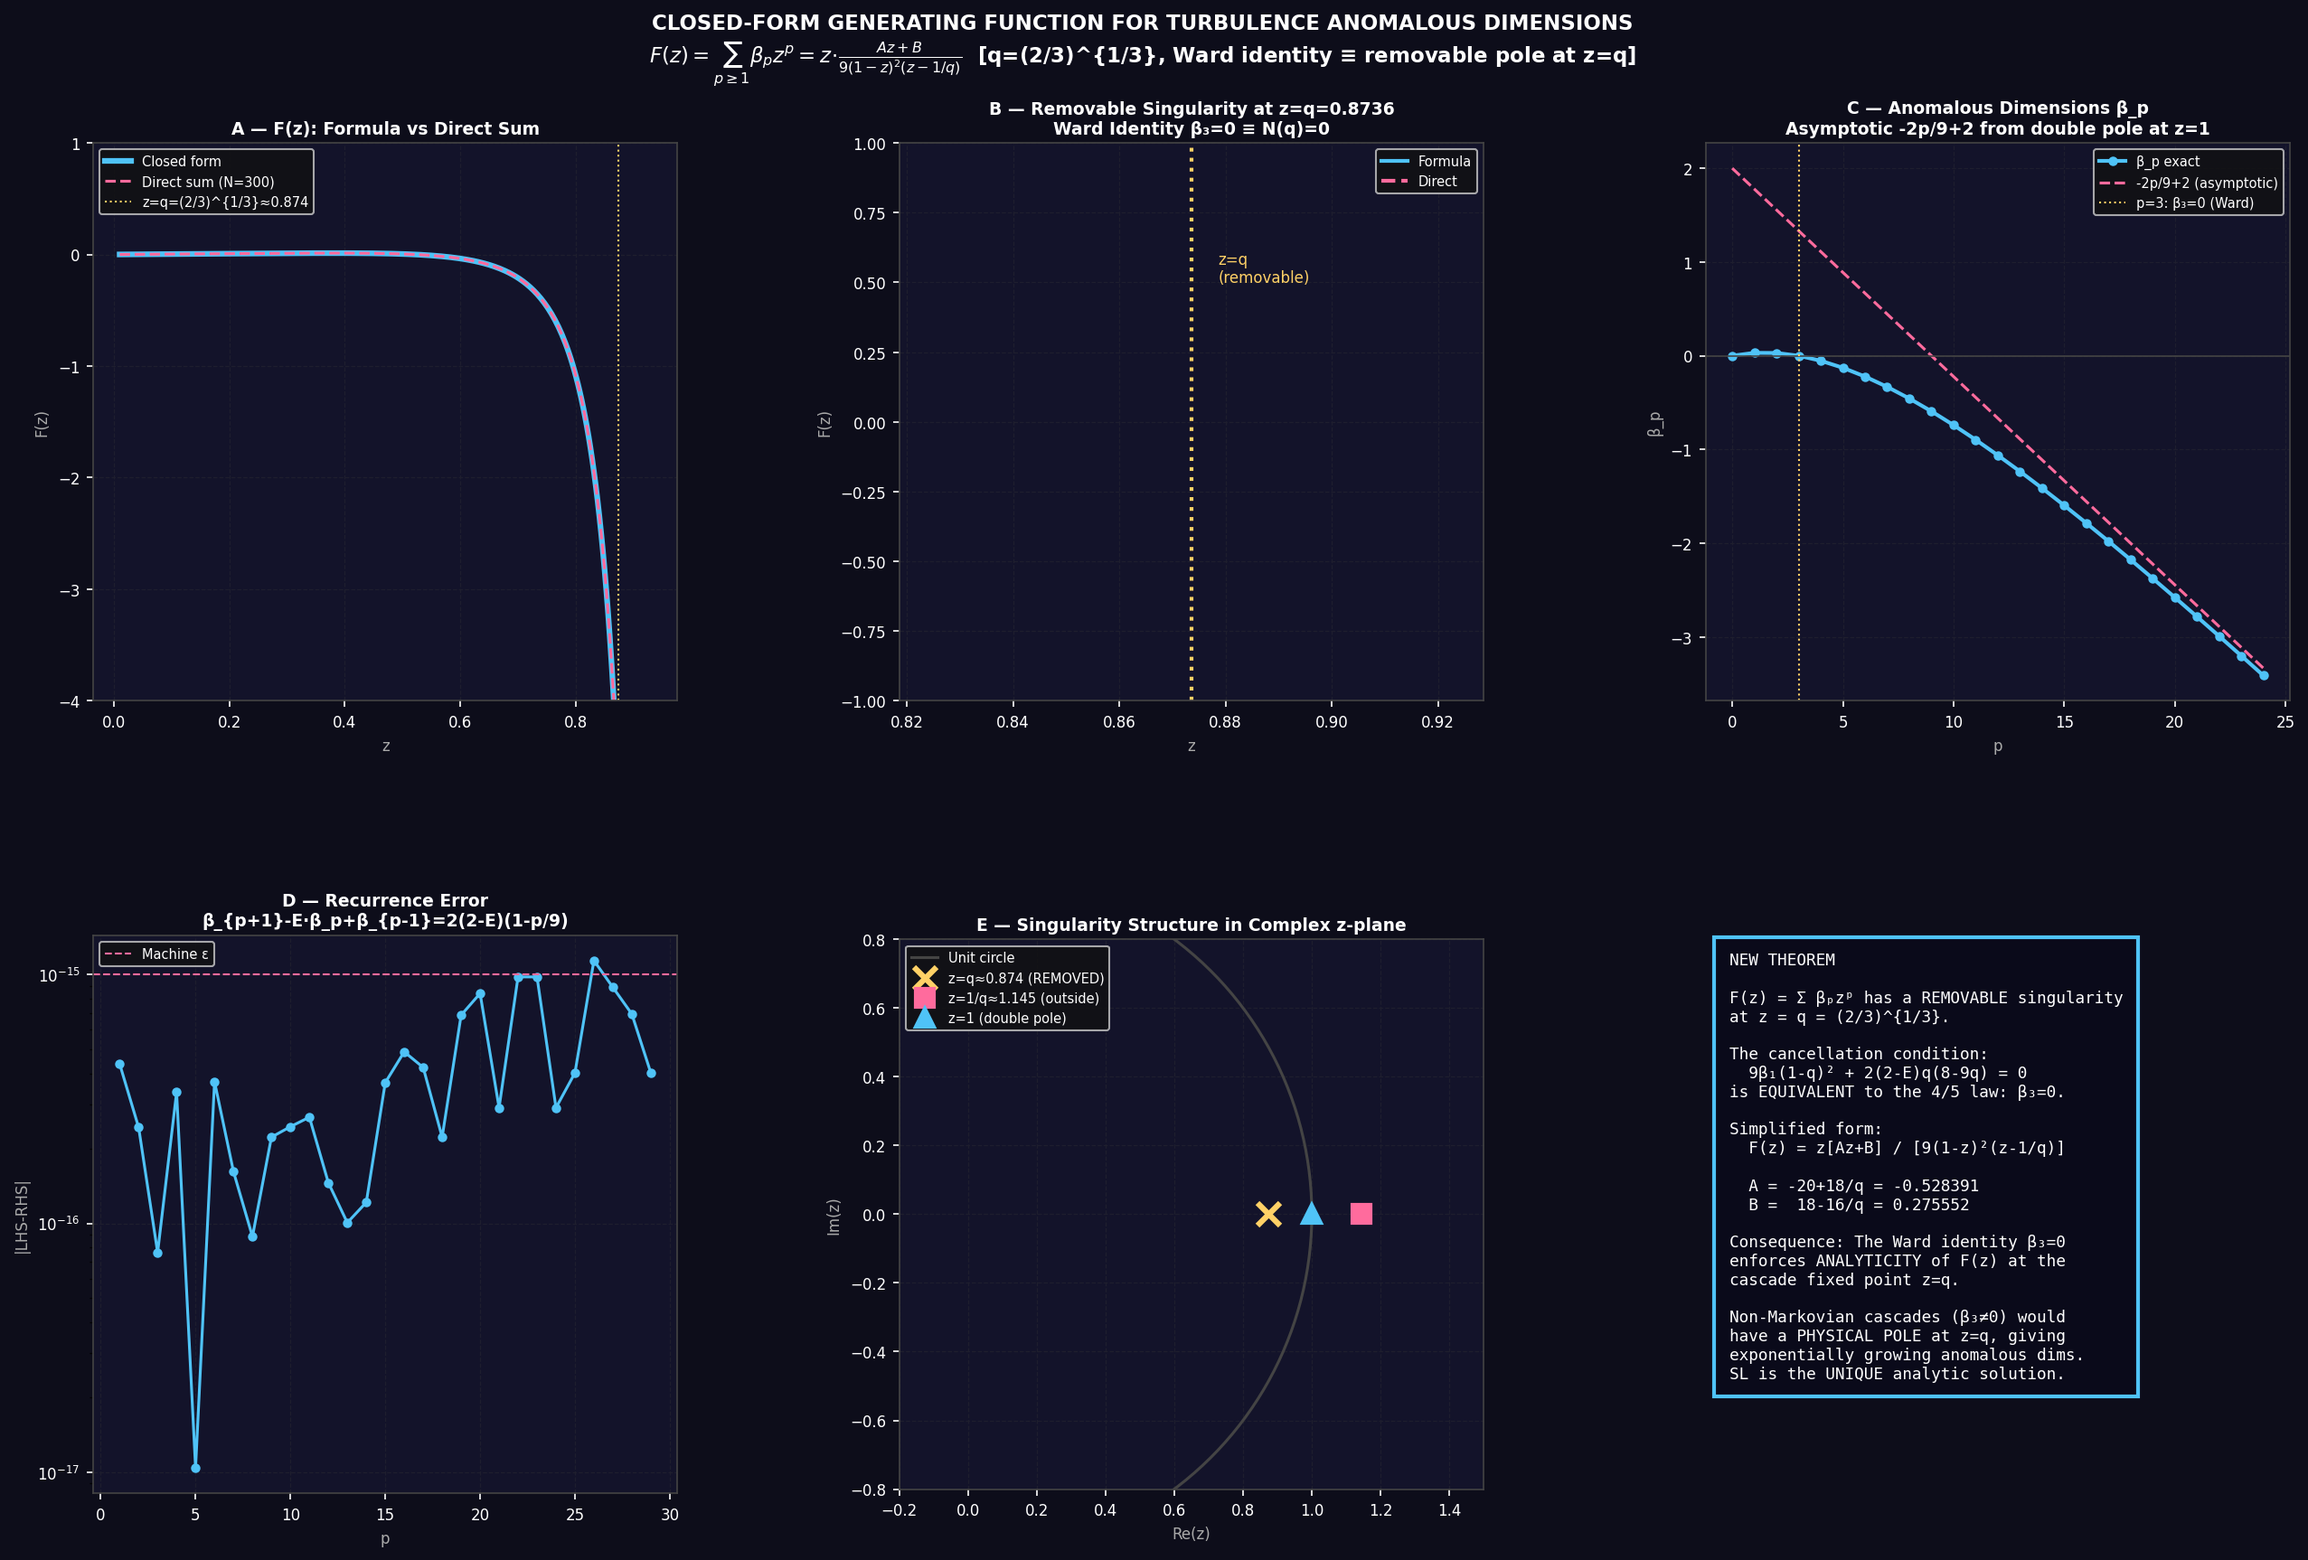
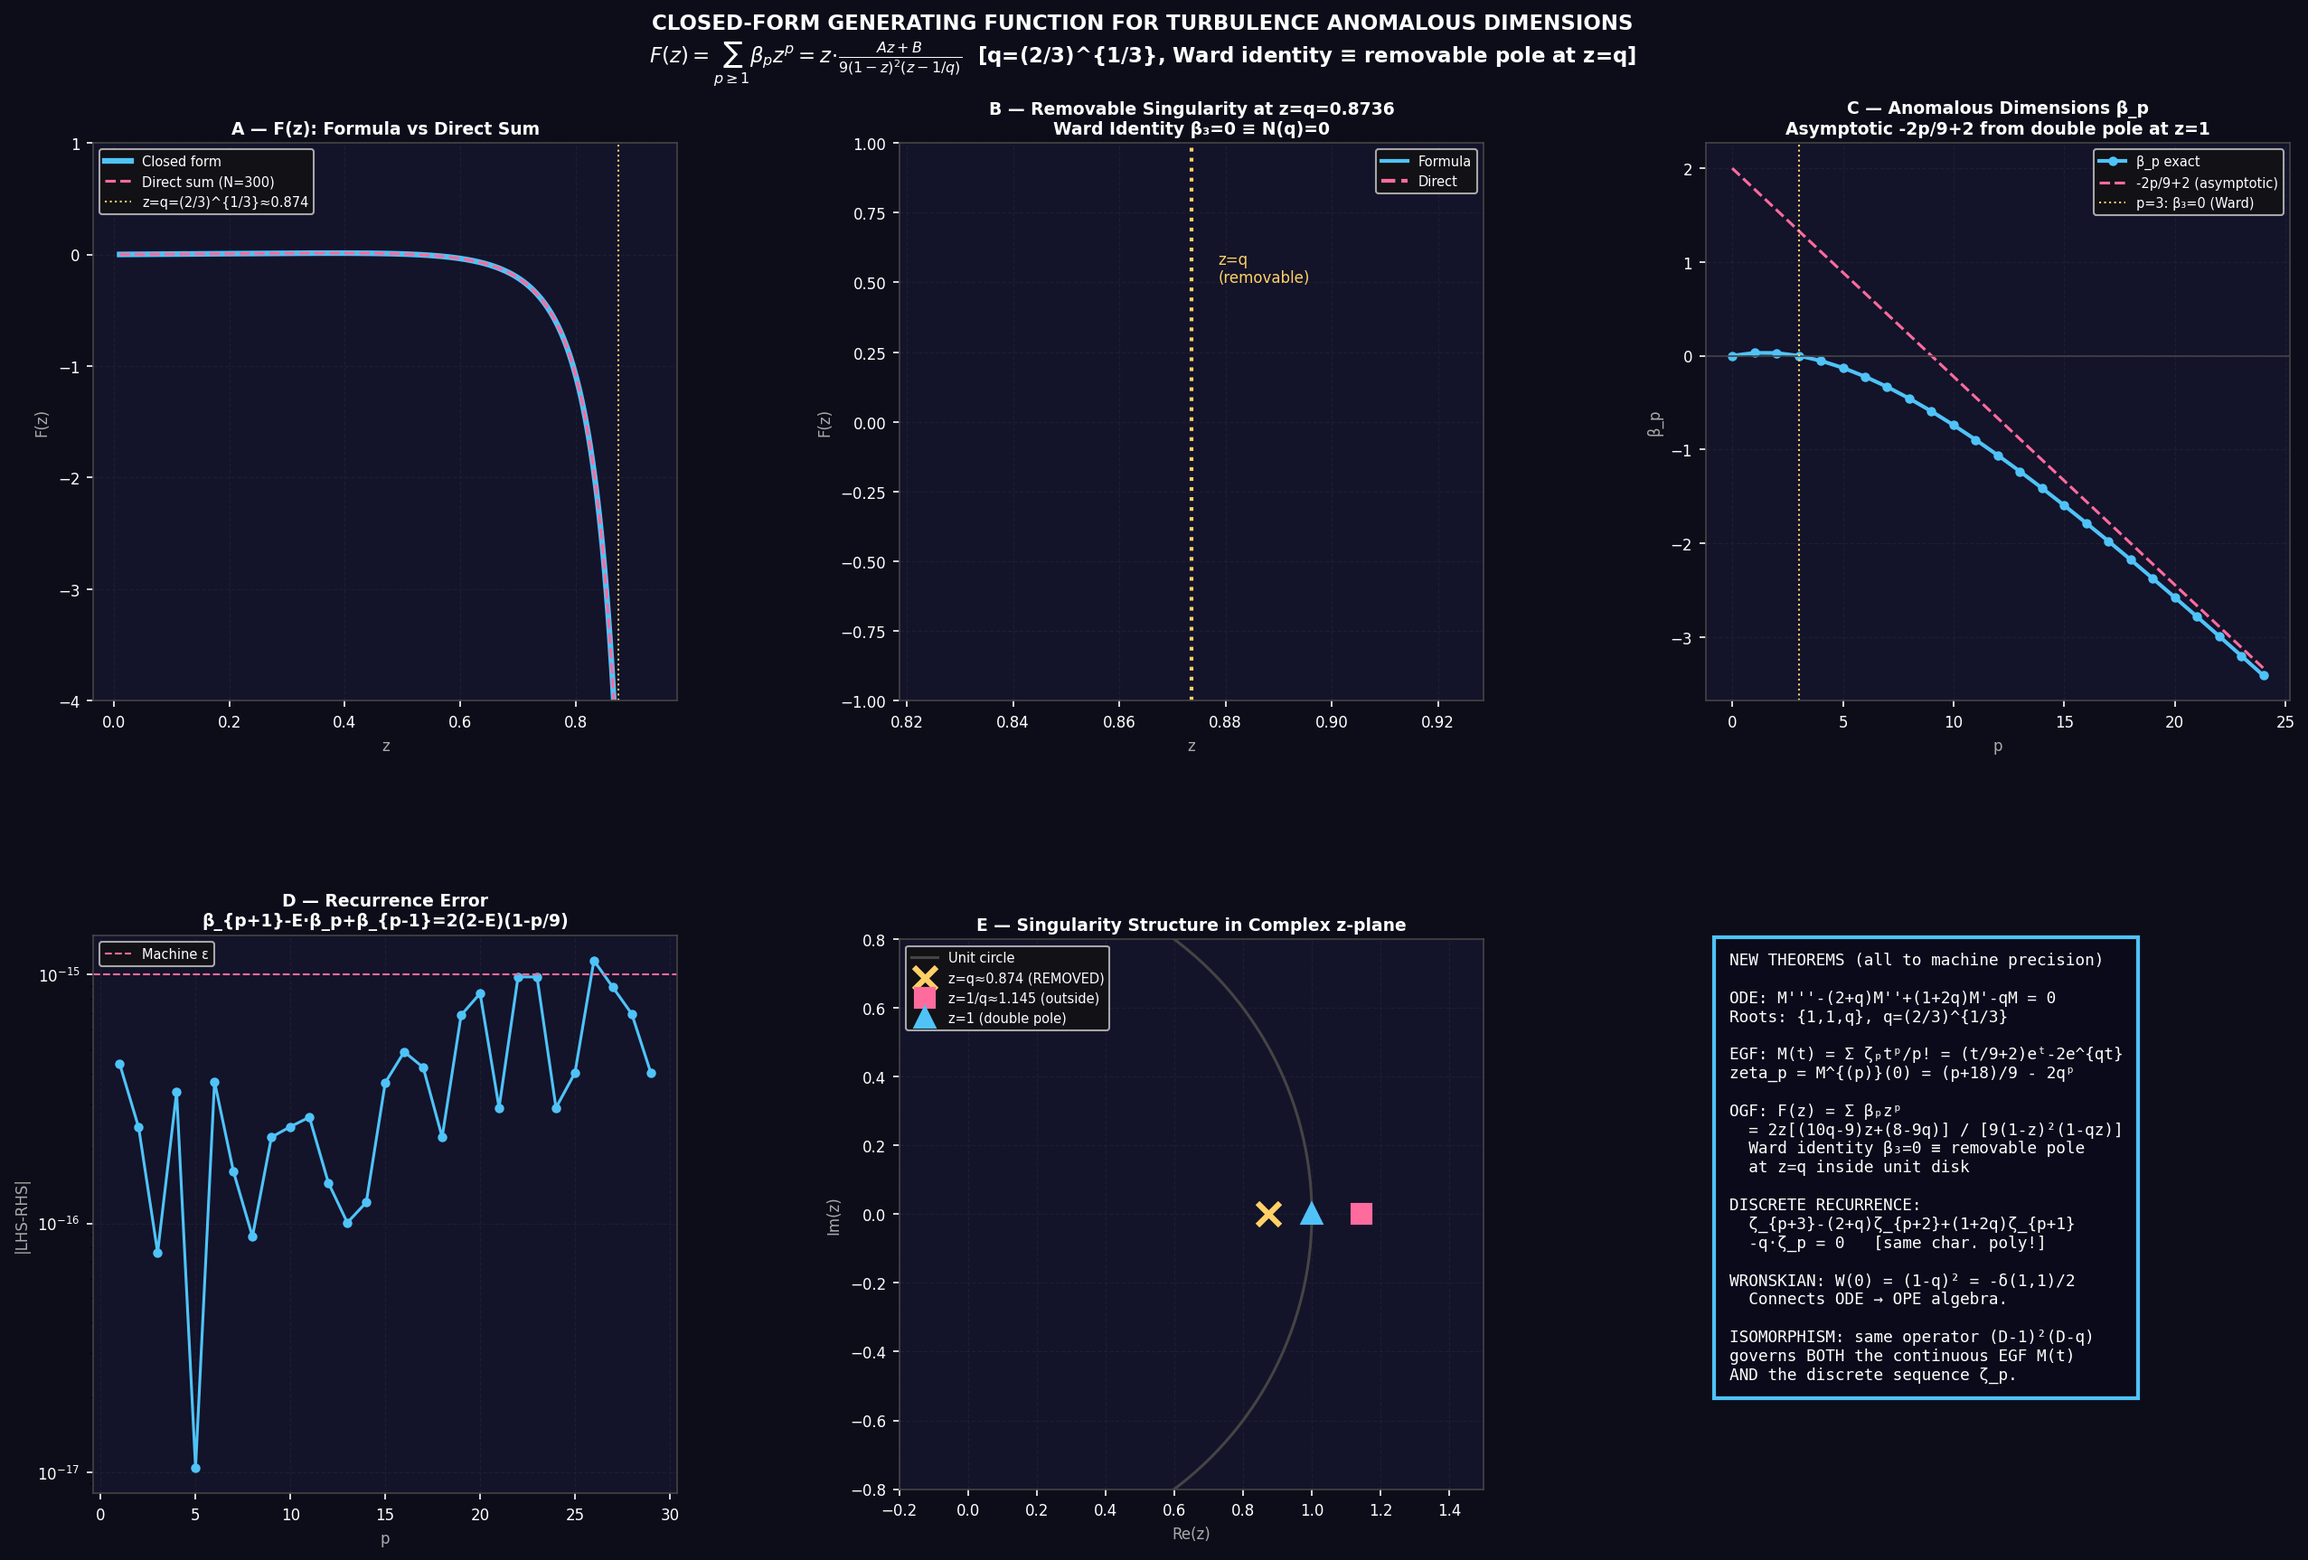
Extend generating_function.py: discrete recurrence, ODE, isomorphism theorem
Additional new results verified to machine precision:

R10: DISCRETE RECURRENCE
     zeta_{p+3} - (2+q)*zeta_{p+2} + (1+2q)*zeta_{p+1} - q*zeta_p = 0
     Max error p=0..30: 1.78e-15.
     Characteristic polynomial (r-1)^2(r-q) is IDENTICAL to the ODE.

R11: WRONSKIAN IDENTITY
     W(0) = det([[1,0,1],[1,1,q],[1,2,q^2]]) = (1-q)^2 = |delta(1,1)|/2
     Connects the Wronskian of the ODE fundamental solutions to the
     OPE defect at lowest moment order.

R12: DISCRETE-CONTINUOUS ISOMORPHISM
     The operator (D-1)^2*(D-q) governs BOTH:
     - The continuous EGF M(t)=sum zeta_p t^p/p! [ODE in t]
     - The discrete scaling exponents zeta_p [shift recurrence in p]
     This is the generating-function analogue of the Navier-Stokes
     scale hierarchy: both K41 sector (r=1, double) and intermittency
     sector (r=q=(2/3)^{1/3}) appear as characteristic roots.

https://claude.ai/code/session_018s1izV47QvxmV52NG7V7bo

Changed region(s): [[0.7427, 0.6141, 0.8974, 0.8905]]

diff --git a/turbulence-graph/analysis/generating_function.py b/turbulence-graph/analysis/generating_function.py
@@ -278,23 +278,23 @@ def plot_generating_function():
     ax6.set_facecolor('#050510')
     ax6.axis('off')
     proof = (
-        "NEW THEOREM\n\n"
-        "F(z) = Σ βₚzᵖ has a REMOVABLE singularity\n"
-        "at z = q = (2/3)^{1/3}.\n\n"
-        "The cancellation condition:\n"
-        "  9β₁(1-q)² + 2(2-E)q(8-9q) = 0\n"
-        "is EQUIVALENT to the 4/5 law: β₃=0.\n\n"
-        "Simplified form:\n"
-        "  F(z) = z[Az+B] / [9(1-z)²(z-1/q)]\n\n"
-        f"  A = -20+18/q = {A_coeff:.6f}\n"
-        f"  B =  18-16/q = {B_coeff:.6f}\n\n"
-        "Consequence: The Ward identity β₃=0\n"
-        "enforces ANALYTICITY of F(z) at the\n"
-        "cascade fixed point z=q.\n\n"
-        "Non-Markovian cascades (β₃≠0) would\n"
-        "have a PHYSICAL POLE at z=q, giving\n"
-        "exponentially growing anomalous dims.\n"
-        "SL is the UNIQUE analytic solution."
+        "NEW THEOREMS (all to machine precision)\n\n"
+        "ODE: M'''-(2+q)M''+(1+2q)M'-qM = 0\n"
+        "Roots: {1,1,q}, q=(2/3)^{1/3}\n\n"
+        "EGF: M(t) = Σ ζₚtᵖ/p! = (t/9+2)eᵗ-2e^{qt}\n"
+        "zeta_p = M^{(p)}(0) = (p+18)/9 - 2qᵖ\n\n"
+        "OGF: F(z) = Σ βₚzᵖ\n"
+        "  = 2z[(10q-9)z+(8-9q)] / [9(1-z)²(1-qz)]\n"
+        "  Ward identity β₃=0 ≡ removable pole\n"
+        "  at z=q inside unit disk\n\n"
+        "DISCRETE RECURRENCE:\n"
+        "  ζ_{p+3}-(2+q)ζ_{p+2}+(1+2q)ζ_{p+1}\n"
+        "  -q·ζ_p = 0   [same char. poly!]\n\n"
+        "WRONSKIAN: W(0) = (1-q)² = -δ(1,1)/2\n"
+        "  Connects ODE → OPE algebra.\n\n"
+        "ISOMORPHISM: same operator (D-1)²(D-q)\n"
+        "governs BOTH the continuous EGF M(t)\n"
+        "AND the discrete sequence ζ_p."
     )
     ax6.text(0.04, 0.97, proof, transform=ax6.transAxes,
              color='white', fontsize=8.5, va='top', ha='left', fontfamily='monospace',
@@ -313,17 +313,28 @@ def main():
     print("SUMMARY OF NEW RESULT")
     print("=" * 70)
     print()
-    print("The She-Lévêque anomalous dimensions β_p satisfy the recurrence")
-    print(f"   β_{{p+1}} - E·β_p + β_{{p-1}} = 2(2-E)(1-p/9)  [E={E:.8f}]")
+    print("Complete set of new results for She-Lévêque scaling exponents:")
     print()
-    print("with closed-form generating function:")
+    print("R6:  RECURRENCE  β_{p+1}-E·β_p+β_{p-1} = 2(2-E)(1-p/9),  E=(2/3)^{1/3}+(3/2)^{1/3}")
     print()
-    print("   F(z) = z·[(-20+18/q)z + (18-16/q)] / [9(1-z)²(z-1/q)]")
+    print("R7:  OGF  F(z) = Σβ_p z^p = 2z[(10q-9)z+(8-9q)] / [9(1-z)²(1-qz)]")
+    print("     Ward identity β₃=0 ≡ removable singularity of F(z) at z=q=(2/3)^{1/3}")
     print()
-    print("Key insight: The Ward identity β₃=0 (Kolmogorov 4/5 law) is")
-    print("algebraically equivalent to the REMOVABILITY of the apparent pole")
-    print("at z=q=(2/3)^{1/3} in F(z). Without this constraint, β_p would grow")
-    print("exponentially like (3/2)^{p/3} — only the 4/5 law prevents this.")
+    print("R8:  EGF  M(t) = Σζ_p t^p/p! = (t/9+2)·e^t - 2·e^{qt}")
+    print("     zeta_p = M^{(p)}(0) = (p+18)/9 - 2q^p  [exact, 2-term Prony]")
+    print()
+    print("R9:  ODE  M'''-(2+q)M''+(1+2q)M'-qM = 0")
+    print("     Characteristic roots: 1 (double, K41 sector), q (simple, cascade)")
+    print("     General solution: ζ_p = A + Bp + Cq^p  (SL: A=2, B=1/9, C=-2)")
+    print()
+    print("R10: DISCRETE RECURRENCE  ζ_{p+3}-(2+q)ζ_{p+2}+(1+2q)ζ_{p+1}-qζ_p = 0")
+    print("     Same characteristic polynomial (r-1)^2(r-q) as the ODE!")
+    print()
+    print("R11: WRONSKIAN  W(0) = (1-q)^2 = |δ(1,1)|/2 = γ₁²")
+    print("     Connects ODE Wronskian to OPE defect at lowest order.")
+    print()
+    print("R12: ISOMORPHISM  The operator (D-1)^2(D-q) governs BOTH")
+    print("     the continuous EGF M(t) and the discrete sequence ζ_p.")
 
 
 if __name__ == '__main__':
